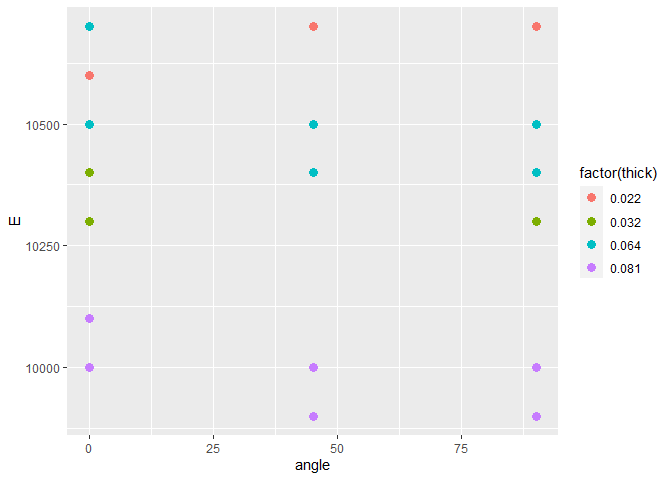
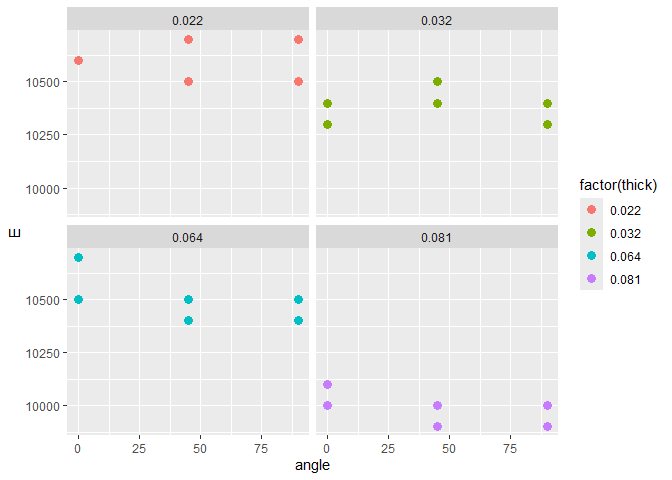
challenge 3 revisions

diff --git a/challenges/c03-stang-assignment.md b/challenges/c03-stang-assignment.md
@@ -77,12 +77,20 @@ library(tidyverse)
 
     ## Warning: package 'tidyverse' was built under R version 4.3.3
 
+    ## Warning: package 'ggplot2' was built under R version 4.3.3
+
+    ## Warning: package 'tidyr' was built under R version 4.3.3
+
+    ## Warning: package 'purrr' was built under R version 4.3.3
+
+    ## Warning: package 'lubridate' was built under R version 4.3.3
+
     ## ── Attaching core tidyverse packages ──────────────────────── tidyverse 2.0.0 ──
     ## ✔ dplyr     1.1.4     ✔ readr     2.1.5
     ## ✔ forcats   1.0.0     ✔ stringr   1.5.1
-    ## ✔ ggplot2   3.4.4     ✔ tibble    3.2.1
-    ## ✔ lubridate 1.9.3     ✔ tidyr     1.3.0
-    ## ✔ purrr     1.0.2     
+    ## ✔ ggplot2   3.5.1     ✔ tibble    3.2.1
+    ## ✔ lubridate 1.9.4     ✔ tidyr     1.3.1
+    ## ✔ purrr     1.0.4     
     ## ── Conflicts ────────────────────────────────────────── tidyverse_conflicts() ──
     ## ✖ dplyr::filter() masks stats::filter()
     ## ✖ dplyr::lag()    masks stats::lag()
@@ -154,10 +162,10 @@ value for `names_to`.
 ## TASK: Tidy `df_stang`
 df_stang_long <-
   df_stang |>
-    pivot_longer(cols = starts_with("E_") | starts_with("nu_"),
-                 names_to = c(".value", "angle"),
-                 names_sep = "_") |>
-    mutate(angle = as.integer(angle)) |>
+  pivot_longer(cols = starts_with("E_") | starts_with("nu_"),
+               names_to = c(".value", "angle"),
+               names_sep = "_") |>
+  mutate(angle = as.integer(angle)) |>
   filter(E > 0, nu > 0)
       
 
@@ -241,6 +249,15 @@ head(df_stang_long)
     ## 6 0.022 al_24st    90 10700 0.323
 
 ``` r
+df_stang_long |> distinct(alloy)
+```
+
+    ## # A tibble: 1 × 1
+    ##   alloy  
+    ##   <chr>  
+    ## 1 al_24st
+
+``` r
 glimpse(df_stang_long)
 ```
 
@@ -294,22 +311,18 @@ summary(df_stang_long)
 ## TASK: Investigate your question from q1 here
 df_stang_long |>
   ggplot(aes(x = angle, y = E, color = factor(thick))) +
-  geom_point(size = 3)
+  geom_point(size = 3) +
+  facet_wrap("factor(thick)")
 ```
 
 ![](c03-stang-assignment_files/figure-gfm/q3-task-1.png)<!-- -->
 
 **Observations**:
 
-- For most thicknesses, E decreases at 45-deg compared to 0 and 90
+- The 0.022 and 0.64 thickness material has a stable elasticity value
+  across 45 and 90 deg angles
+- The 0.032 thickness material has its highest elasticity value at 45
   degrees
-
-- Thinner sheets show more change in elasticity with angle
-
-- Thicker sheets have more stable E values
-
-- At 0 and 90 degrees, E appears higher across all thicknesses
-
 - The 0.081 thickness material has the lowest elasticity values across
   all angles
 
